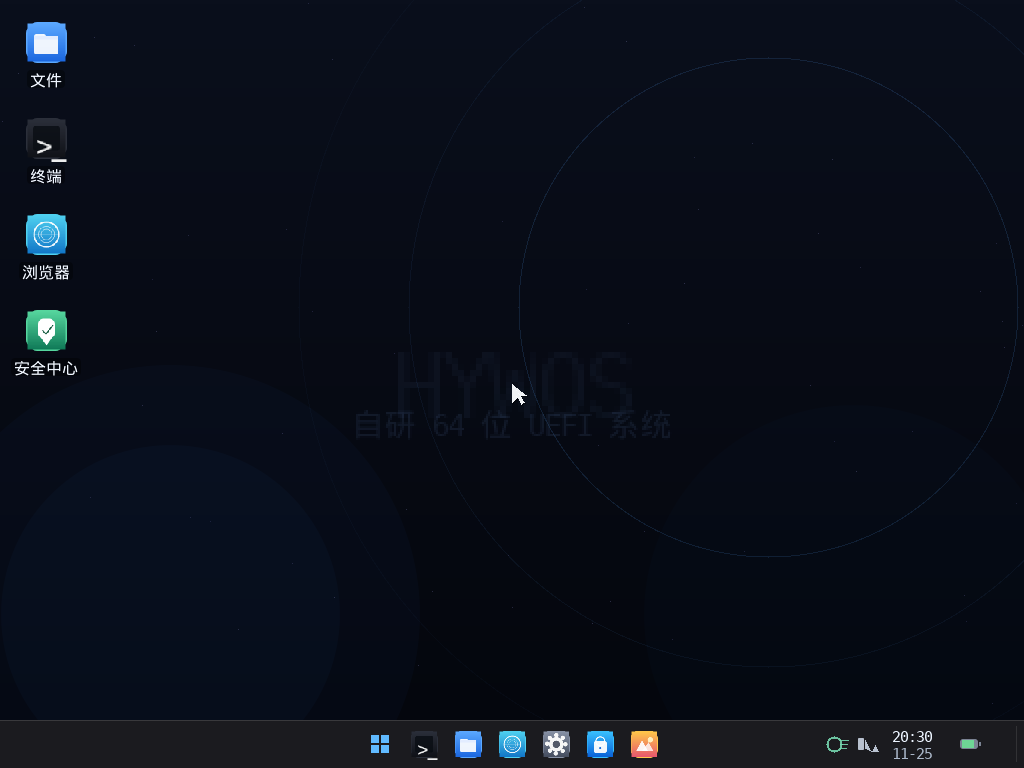
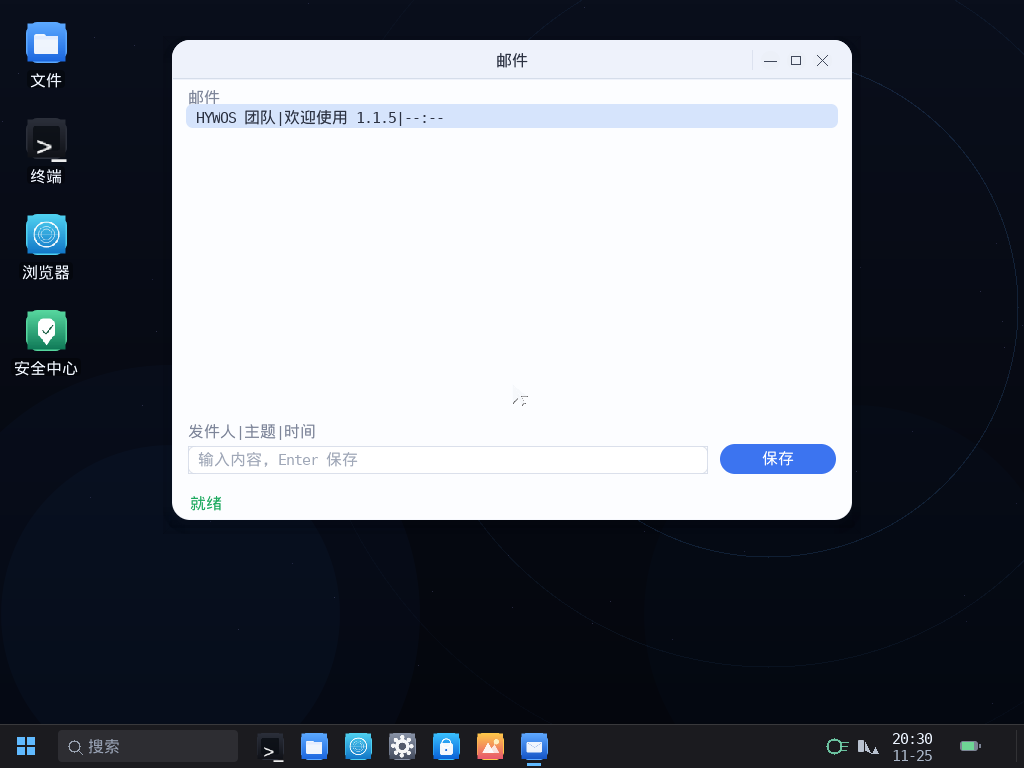
HYWOS 1.1.5: 任务栏改为 Win10 左对齐布局

diff --git a/src/ui.rs b/src/ui.rs
@@ -5,7 +5,7 @@ use crate::gfx::{rgb, text_width, Gfx};
 use crate::hw;
 use crate::icon::{icon, AppId};
 
-pub const TB_H: i32 = 48;
+pub const TB_H: i32 = 44;
 
 pub const TB_APPS: [AppId; 6] = [
     AppId::Terminal,
@@ -285,27 +285,22 @@ impl Ui {
     }
 
     fn tb_group(&self) -> (i32, i32, i32) {
-        let (_, rn) = self.run_slots();
-        let n = 1 + TB_APPS.len() as i32 + rn as i32;
-        let iw = 40i32;
-        let gap = 4i32;
-        let gw = n * iw + (n - 1) * gap;
-        let x0 = (self.w() - gw) / 2;
-        (x0, iw, gap)
+        (250, 40, 4)
     }
 
     fn tb_slot_at(&self, mx: i32, my: i32) -> i32 {
         let h = self.h();
         if my < h - TB_H { return -2; }
         if mx >= self.w() - 8 { return -3; }
+        if mx >= 4 && mx < 52 { return 0; }
         let (x0, iw, gap) = self.tb_group();
+        let (_, rn) = self.run_slots();
+        let total = TB_APPS.len() as i32 + rn as i32;
         if mx < x0 { return -1; }
         let rel = mx - x0;
         let slot = rel / (iw + gap);
         if rel - slot * (iw + gap) >= iw { return -1; }
-        let (_, rn) = self.run_slots();
-        let total = 1 + TB_APPS.len() as i32 + rn as i32;
-        if slot >= 0 && slot < total { slot } else { -1 }
+        if slot >= 0 && slot < total { 1 + slot } else { -1 }
     }
 
     fn draw_start_mark(&self, cx: i32, cy: i32, sz: i32) {
@@ -325,47 +320,47 @@ impl Ui {
         let y0 = h - TB_H;
         g.rect(0, y0, w, TB_H, rgb(28, 28, 32), 246);
         g.rect(0, y0, w, 1, rgb(255, 255, 255), 34);
-        let (x0, iw, gap) = self.tb_group();
         let cy = y0 + TB_H / 2;
+        if self.hover == 0 {
+            g.round_rect(4, y0 + 4, 44, TB_H - 8, 4, rgb(255, 255, 255), 28);
+        }
+        self.draw_start_mark(26, cy, 18);
+        g.round_rect(58, y0 + 6, 180, TB_H - 12, 4, rgb(45, 45, 50), 255);
+        g.ring(74, cy, 6, 1, rgb(170, 180, 196), 220);
+        g.line(78, cy + 4, 82, cy + 8, rgb(170, 180, 196), 220);
+        g.text(88, cy - 7, "搜索", rgb(150, 160, 178), 1);
+
+        let (x0, iw, gap) = self.tb_group();
         let (runs, rn) = self.run_slots();
         let wins = &*core::ptr::addr_of!(WINS);
+        let total = TB_APPS.len() as i32 + rn as i32;
         let mut i = 0;
-        while i < 1 + TB_APPS.len() as i32 + rn as i32 {
+        while i < total {
+            let slot = 1 + i;
             let x = x0 + i * (iw + gap);
-            let hovered = self.hover == i;
-            if hovered { g.round_rect(x, y0 + 4, iw, TB_H - 8, 6, rgb(255, 255, 255), 28); }
+            if self.hover == slot {
+                g.round_rect(x, y0 + 4, iw, TB_H - 8, 4, rgb(255, 255, 255), 28);
+            }
             let ix = x + (iw - 32) / 2;
             let iy = cy - 16;
-            let mut running = false;
-            if i == 0 {
-                self.draw_start_mark(x + iw / 2, cy, 18);
-            } else if i <= TB_APPS.len() as i32 {
-                let id = TB_APPS[(i - 1) as usize];
-                g.blit_rgba(ix, iy, 32, 32, icon(id), 64, 64);
+            let mut run_win = usize::MAX;
+            let id = if i < TB_APPS.len() as i32 {
+                let id = TB_APPS[i as usize];
                 let mut k = 0;
                 while k < 3 {
-                    if wins[k].open && wins[k].id == id { running = true; }
+                    if wins[k].open && wins[k].id == id { run_win = k; }
                     k += 1;
                 }
+                id
             } else {
-                let idx = runs[(i - 1 - TB_APPS.len() as i32) as usize];
-                if idx >= 0 {
-                    let wv = &wins[idx as usize];
-                    g.blit_rgba(ix, iy, 32, 32, icon(wv.id), 64, 64);
-                    running = true;
-                }
-            }
-            if i > 0 && running {
-                let focused = FOCUS == (if i <= TB_APPS.len() as i32 {
-                    let id = TB_APPS[(i - 1) as usize];
-                    let mut f = 99usize;
-                    let mut k = 0;
-                    while k < 3 { if wins[k].open && wins[k].id == id { f = k; } k += 1; }
-                    f
-                } else {
-                    runs[(i - 1 - TB_APPS.len() as i32) as usize] as usize
-                });
-                g.round_rect(x + iw / 2 - 7, y0 + TB_H - 5, 14, 3, 0, rgb(96, 186, 255), if focused { 255 } else { 140 });
+                let idx = runs[(i - TB_APPS.len() as i32) as usize] as usize;
+                run_win = idx;
+                if idx < 3 { wins[idx].id } else { AppId::Terminal }
+            };
+            g.blit_rgba(ix, iy, 32, 32, icon(id), 64, 64);
+            if run_win != usize::MAX && wins[run_win].open {
+                let focused = FOCUS == run_win && !wins[run_win].min;
+                g.round_rect(x + iw / 2 - 7, y0 + TB_H - 5, 14, 3, 0, rgb(96, 186, 255), if focused { 255 } else { 130 });
             }
             i += 1;
         }
@@ -400,9 +395,9 @@ impl Ui {
                 for ch in b"--:--".iter() { tb[tl] = *ch; tl += 1; }
             }
         }
-        g.text(w - 132, y0 + 9, core::str::from_utf8_unchecked(&tb[..tl]), rgb(236, 244, 255), 1);
+        g.text(w - 132, y0 + 7, core::str::from_utf8_unchecked(&tb[..tl]), rgb(236, 244, 255), 1);
         if dl > 0 {
-            g.text(w - 132, y0 + 26, core::str::from_utf8_unchecked(&d2[..dl]), rgb(170, 182, 200), 1);
+            g.text(w - 132, y0 + 24, core::str::from_utf8_unchecked(&d2[..dl]), rgb(170, 182, 200), 1);
         }
         g.round_rect(w - 64, cy - 5, 18, 10, 3, rgb(150, 160, 180), 200);
         g.rect(w - 45, cy - 2, 2, 4, rgb(150, 160, 180), 200);
@@ -412,14 +407,21 @@ impl Ui {
         let msg = &*core::ptr::addr_of!(SHOT_MSG);
         let ml = SHOT_MSG_LEN;
         if ml > 0 {
-            g.text(w - 330, y0 + 17, core::str::from_utf8_unchecked(&msg[..ml]), rgb(140, 230, 170), 1);
+            g.text(w - 330, y0 + 15, core::str::from_utf8_unchecked(&msg[..ml]), rgb(140, 230, 170), 1);
         }
-        if self.hover >= 0 && self.hover <= TB_APPS.len() as i32 {
-            let label = if self.hover == 0 { "开始" } else { TB_APPS[(self.hover - 1) as usize].name() };
+        if self.hover >= 0 && self.hover <= total {
+            let label = if self.hover == 0 {
+                "开始"
+            } else if self.hover <= TB_APPS.len() as i32 {
+                TB_APPS[(self.hover - 1) as usize].name()
+            } else {
+                "窗口"
+            };
             let lw = text_width(label, 1) + 22;
-            let lx = x0 + self.hover * (iw + gap) + iw / 2 - lw / 2;
-            g.round_rect(lx, y0 - 34, lw, 24, 6, rgb(48, 48, 54), 240);
-            g.text_center(lx + lw / 2, y0 - 29, label, rgb(238, 244, 252), 1);
+            let cx = if self.hover == 0 { 26 } else { x0 + (self.hover - 1) * (iw + gap) + iw / 2 };
+            let lx = cx - lw / 2;
+            g.round_rect(lx, y0 - 32, lw, 24, 4, rgb(48, 48, 54), 240);
+            g.text_center(lx + lw / 2, y0 - 27, label, rgb(238, 244, 252), 1);
         }
     }
 

diff --git a/RELEASE_1.1.5.md b/RELEASE_1.1.5.md
@@ -4,7 +4,8 @@
 
 ## Windows 风格桌面
 
-- **全宽底部任务栏**：深色半透明背景、顶部高光线，图标组居中排列。
+- **全宽底部任务栏**：44px 高，深色半透明背景与顶部高光线，采用 Windows 10
+  左对齐布局：开始按钮、搜索框、固定应用依次从左排列。
 - **开始按钮**：任务栏第一个图标，四格蓝色标志，点击打开/关闭开始菜单；
   `Super` 或 `0` 键同样可用。
 - **固定应用**：终端、文件、浏览器、设置、应用商店、照片，共 6 个。
